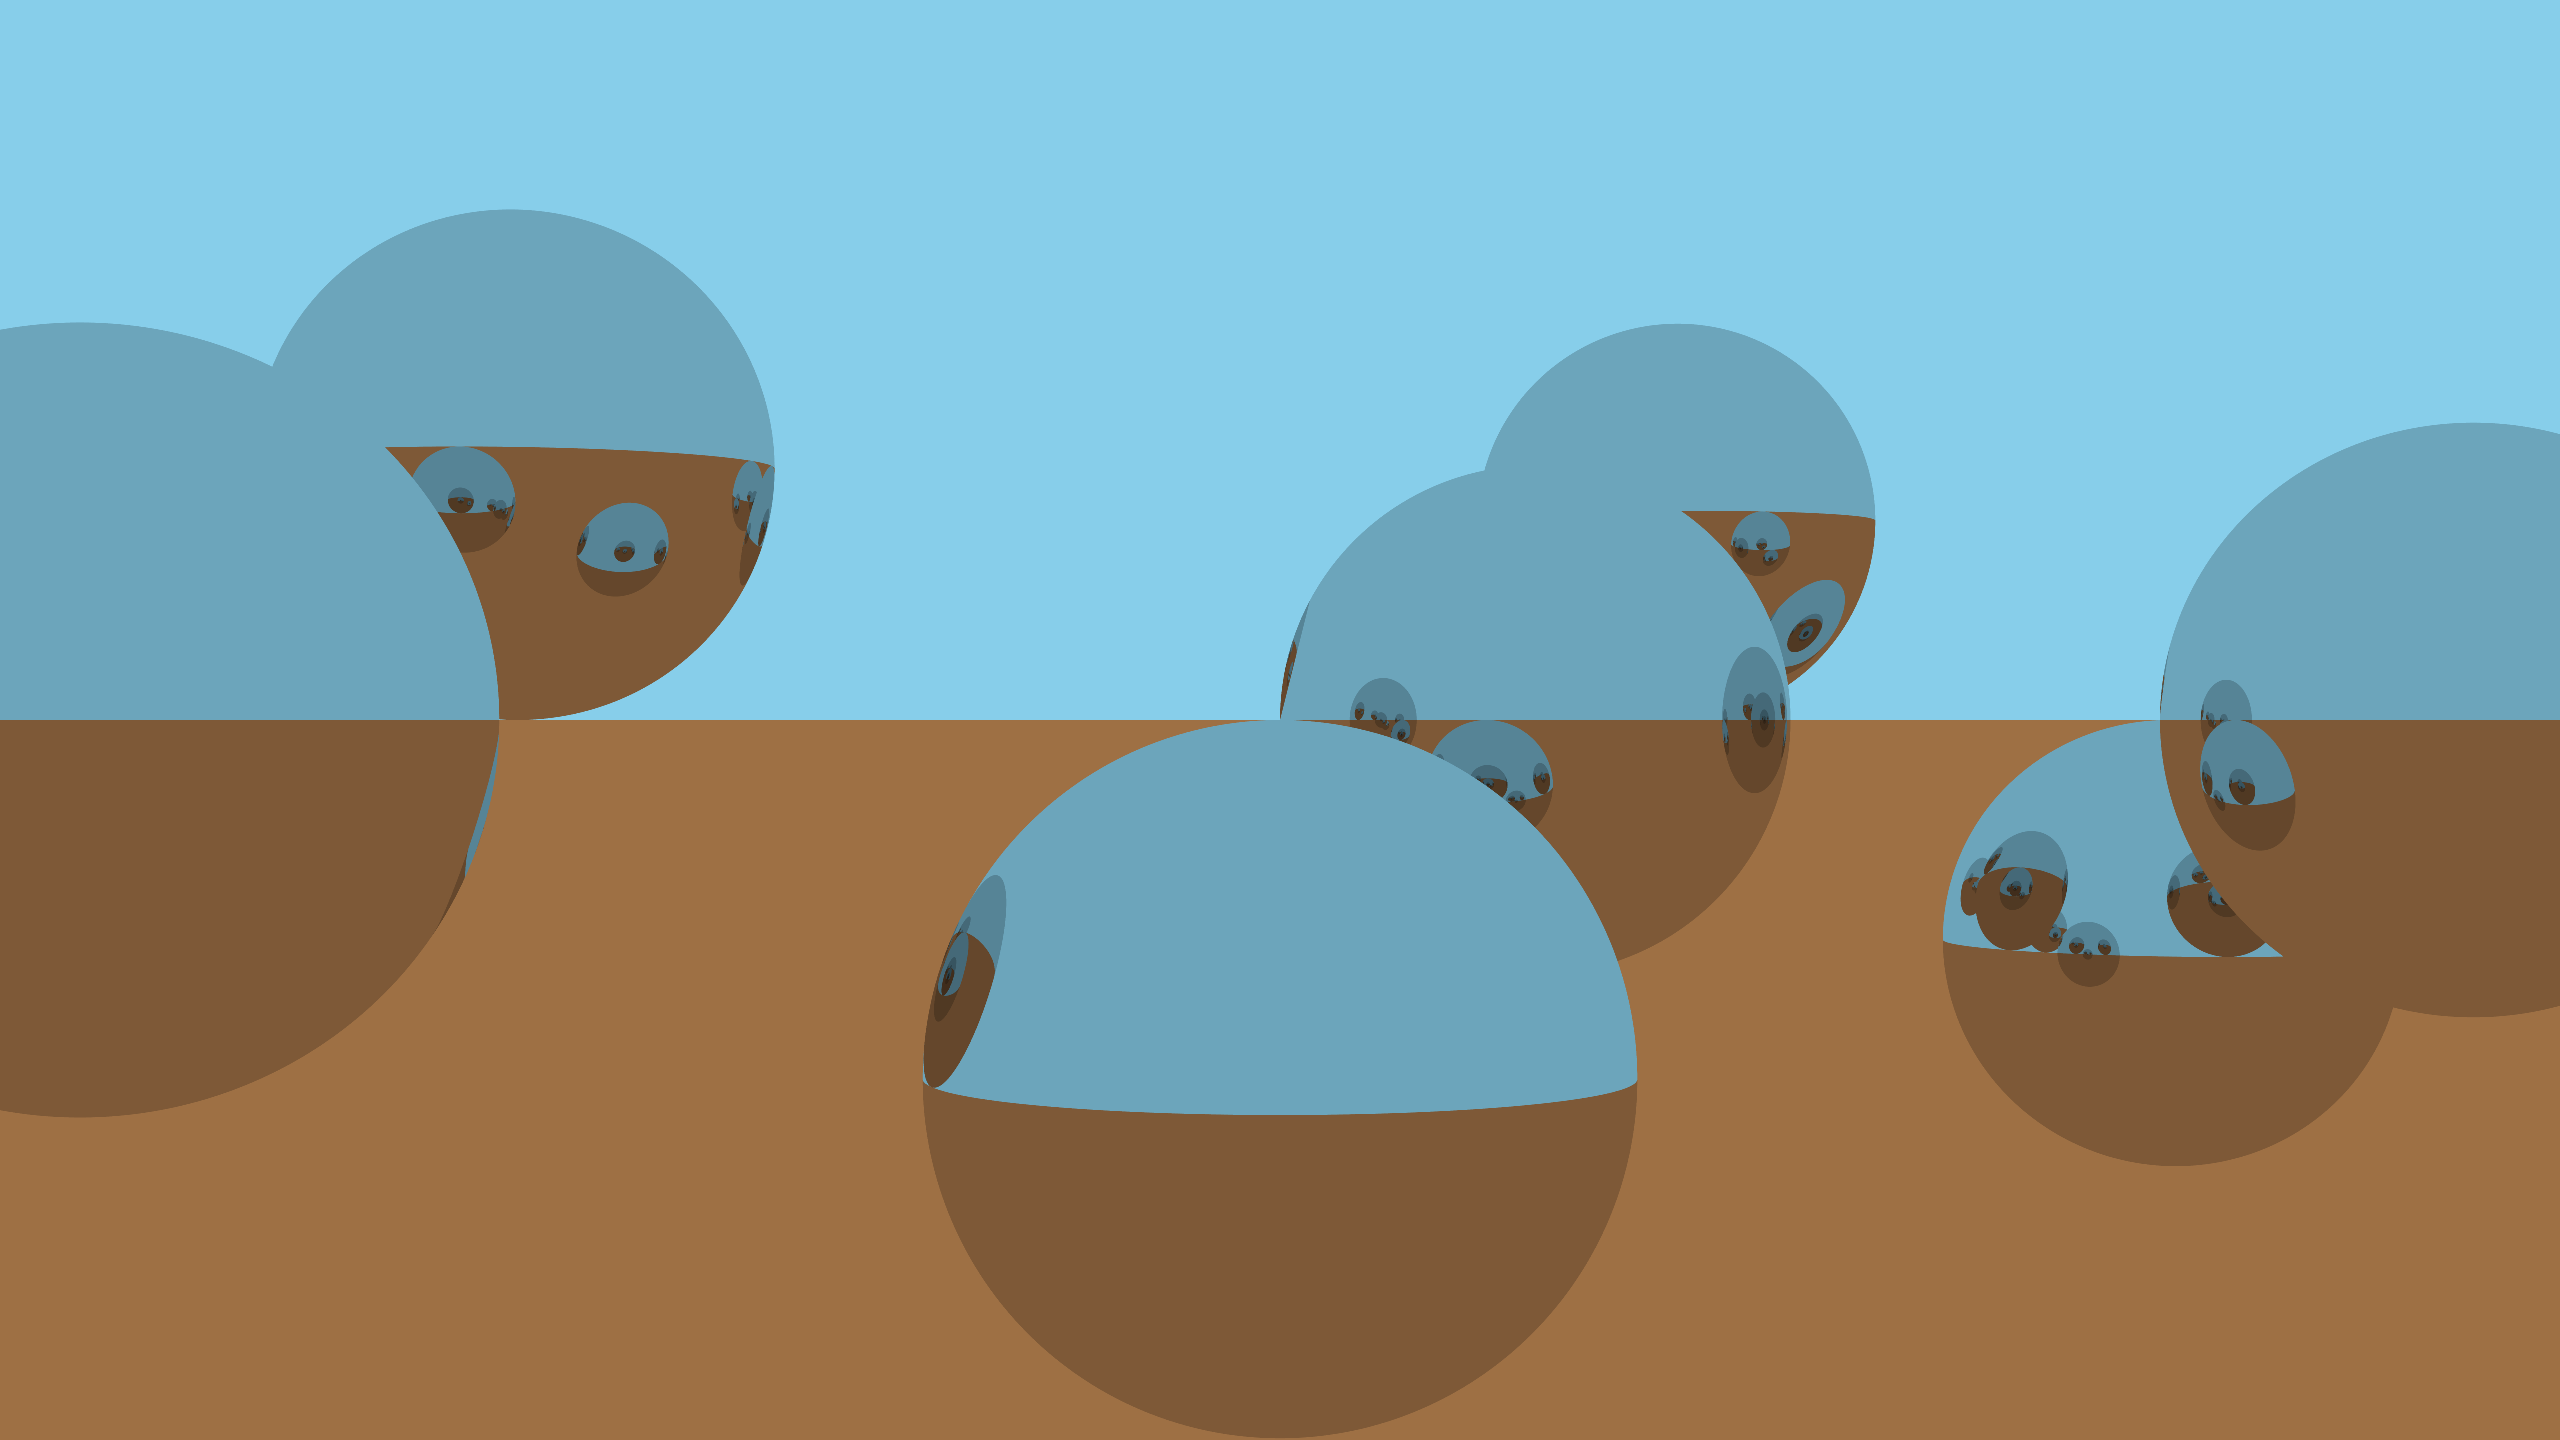
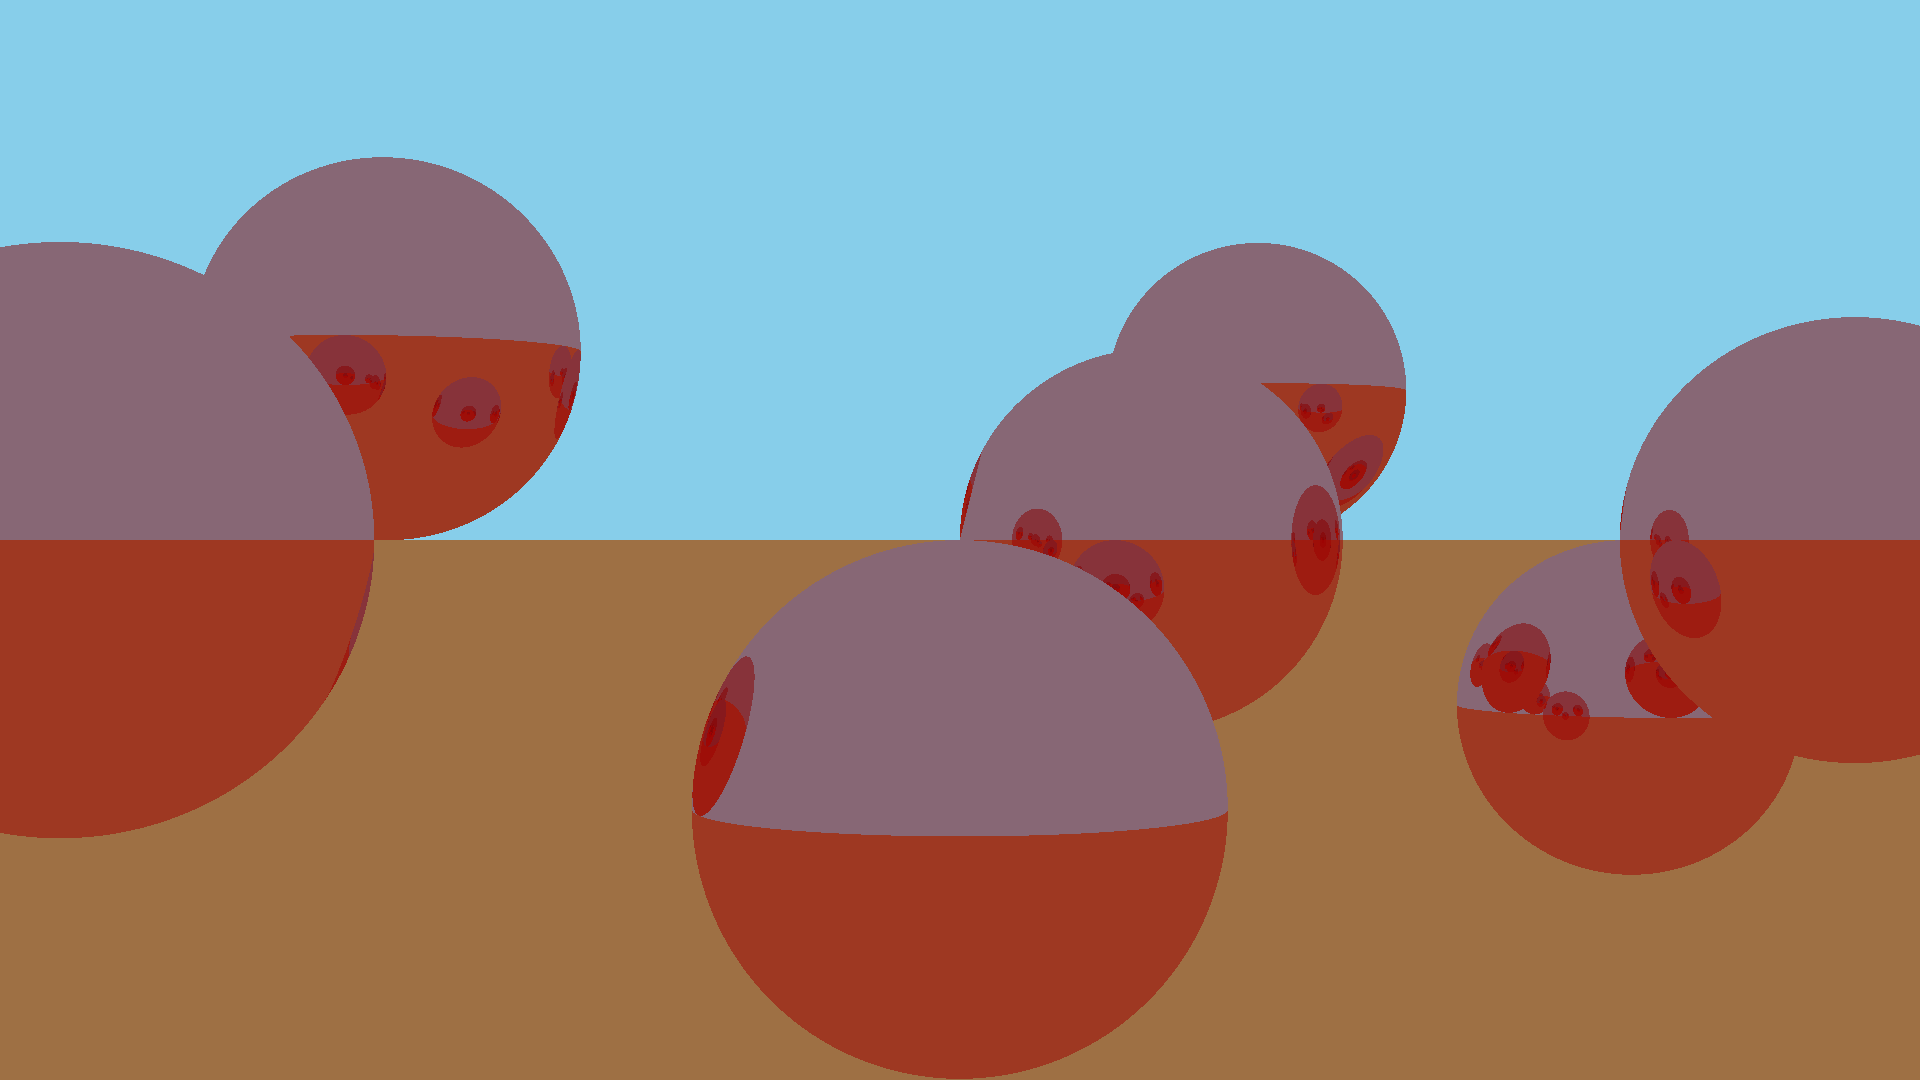
Materials are working a bit more now, need to get individual material parameters working

diff --git a/RayTracerLib/GPUDiffuseMaterial.cpp b/RayTracerLib/GPUDiffuseMaterial.cpp
@@ -29,20 +29,18 @@ GPUDiffuseMaterial::GPUDiffuseMaterial(vk::Device device)
 
 vk::DescriptorSetLayout GPUDiffuseMaterial::DescribeShader()
 {
-	vk::DescriptorSetLayoutBinding descriptorSetLayoutBindings[2] = {};
+	vk::DescriptorSetLayoutBinding descriptorSetLayoutBindings[3] = {};
 
-	descriptorSetLayoutBindings[0].binding = 0;
-	descriptorSetLayoutBindings[0].descriptorType = vk::DescriptorType::eStorageBuffer;
-	descriptorSetLayoutBindings[0].descriptorCount = 1;
-	descriptorSetLayoutBindings[0].stageFlags = vk::ShaderStageFlagBits::eCompute;
-
-	descriptorSetLayoutBindings[1].binding = 1;
-	descriptorSetLayoutBindings[1].descriptorType = vk::DescriptorType::eStorageBuffer;
-	descriptorSetLayoutBindings[1].descriptorCount = 1;
-	descriptorSetLayoutBindings[1].stageFlags = vk::ShaderStageFlagBits::eCompute;
+	for (size_t i = 0; i < ARRAYSIZE(descriptorSetLayoutBindings); i++)
+	{
+		descriptorSetLayoutBindings[i].binding = static_cast<uint32_t>(i);
+		descriptorSetLayoutBindings[i].descriptorType = vk::DescriptorType::eStorageBuffer;
+		descriptorSetLayoutBindings[i].descriptorCount = 1;
+		descriptorSetLayoutBindings[i].stageFlags = vk::ShaderStageFlagBits::eCompute;
+	}
 
 	vk::DescriptorSetLayoutCreateInfo descriptorSetLayoutCreateInfo;
-	descriptorSetLayoutCreateInfo.bindingCount = 2;
+	descriptorSetLayoutCreateInfo.bindingCount = ARRAYSIZE(descriptorSetLayoutBindings);
 	descriptorSetLayoutCreateInfo.pBindings = descriptorSetLayoutBindings;
 
 	return Device.createDescriptorSetLayout(descriptorSetLayoutCreateInfo);
@@ -79,17 +77,17 @@ vk::Result GPUDiffuseMaterial::CreatePipeline()
 
 std::vector<vk::DescriptorSet> GPUDiffuseMaterial::AllocateDescriptorSets()
 {
-	vk::DescriptorPoolSize descriptorPoolSizes[2] = {};
+	vk::DescriptorPoolSize descriptorPoolSizes[3] = {};
 
-	descriptorPoolSizes[0].type = vk::DescriptorType::eStorageBuffer;
-	descriptorPoolSizes[0].descriptorCount = 1;
-
-	descriptorPoolSizes[1].type = vk::DescriptorType::eStorageBuffer;
-	descriptorPoolSizes[1].descriptorCount = 1;
+	for (size_t i = 0; i < ARRAYSIZE(descriptorPoolSizes); i++)
+	{
+		descriptorPoolSizes[i].type = vk::DescriptorType::eStorageBuffer;
+		descriptorPoolSizes[i].descriptorCount = 1;
+	}
 
 	vk::DescriptorPoolCreateInfo descriptorPoolCreateInfo = {};
 	descriptorPoolCreateInfo.maxSets = 1;
-	descriptorPoolCreateInfo.poolSizeCount = 2;
+	descriptorPoolCreateInfo.poolSizeCount = ARRAYSIZE(descriptorPoolSizes);
 	descriptorPoolCreateInfo.pPoolSizes = descriptorPoolSizes;
 
 	vk::DescriptorPool descriptorPool = Device.createDescriptorPool(descriptorPoolCreateInfo);
@@ -107,40 +105,36 @@ std::vector<vk::DescriptorSet> GPUDiffuseMaterial::AllocateDescriptorSets()
 }
 
 void GPUDiffuseMaterial::UpdateDescriptorSets(std::vector<vk::DescriptorSet> &descriptorSet,
-	vk::Buffer input_gpu_intersection_buffer, vk::Buffer output_gpu_ray_buffer)
+	vk::Buffer input_gpu_intersection_buffer, vk::Buffer output_gpu_ray_buffer, vk::Buffer input_material_parameters)
 {
-	vk::DescriptorBufferInfo writeDescriptorSetBufferInfo[2] = {};
-	vk::WriteDescriptorSet writeDescriptorSet[2] = {};
+	vk::DescriptorBufferInfo writeDescriptorSetBufferInfo[3] = {};
+	vk::WriteDescriptorSet writeDescriptorSet[ARRAYSIZE(writeDescriptorSetBufferInfo)] = {};
+
+	for (size_t i = 0; i < ARRAYSIZE(writeDescriptorSetBufferInfo); i++)
+	{
+		writeDescriptorSetBufferInfo[i].offset = 0;
+		writeDescriptorSetBufferInfo[i].range = VK_WHOLE_SIZE;
+
+		writeDescriptorSet[i].dstSet = descriptorSet[0];
+		writeDescriptorSet[i].dstBinding = static_cast<uint32_t>(i);
+		writeDescriptorSet[i].descriptorCount = 1;
+		writeDescriptorSet[i].descriptorType = vk::DescriptorType::eStorageBuffer;
+		writeDescriptorSet[i].pBufferInfo = &writeDescriptorSetBufferInfo[i];
+	}
 
 	writeDescriptorSetBufferInfo[0].buffer = input_gpu_intersection_buffer;
-	writeDescriptorSetBufferInfo[0].offset = 0;
-	writeDescriptorSetBufferInfo[0].range = VK_WHOLE_SIZE;
-
-	writeDescriptorSet[0].dstSet = descriptorSet[0];
-	writeDescriptorSet[0].dstBinding = 0;
-	writeDescriptorSet[0].descriptorCount = 1;
-	writeDescriptorSet[0].descriptorType = vk::DescriptorType::eStorageBuffer;
-	writeDescriptorSet[0].pBufferInfo = &writeDescriptorSetBufferInfo[0];
-
 	writeDescriptorSetBufferInfo[1].buffer = output_gpu_ray_buffer;
-	writeDescriptorSetBufferInfo[1].offset = 0;
-	writeDescriptorSetBufferInfo[1].range = VK_WHOLE_SIZE;
+	writeDescriptorSetBufferInfo[2].buffer = input_material_parameters;
 
-	writeDescriptorSet[1].dstSet = descriptorSet[0];
-	writeDescriptorSet[1].dstBinding = 1;
-	writeDescriptorSet[1].descriptorCount = 1;
-	writeDescriptorSet[1].descriptorType = vk::DescriptorType::eStorageBuffer;
-	writeDescriptorSet[1].pBufferInfo = &writeDescriptorSetBufferInfo[1];
-
-	Device.updateDescriptorSets(2, writeDescriptorSet, 0, nullptr);
+	Device.updateDescriptorSets(ARRAYSIZE(writeDescriptorSetBufferInfo), writeDescriptorSet, 0, nullptr);
 }
 
 void GPUDiffuseMaterial::Execute(uint32_t ComputeQueueIndex, size_t incoming_ray_count,
-	vk::Buffer input_gpu_intersection_buffer, vk::Buffer output_gpu_ray_buffer)
+	vk::Buffer input_gpu_intersection_buffer, vk::Buffer output_gpu_ray_buffer, vk::Buffer input_material_parameters)
 {
 	DiffuseMaterialPushConstants.material_id = 1;
 
-	UpdateDescriptorSets(DescriptorSets, input_gpu_intersection_buffer, output_gpu_ray_buffer);
+	UpdateDescriptorSets(DescriptorSets, input_gpu_intersection_buffer, output_gpu_ray_buffer, input_material_parameters);
 
 	vk::CommandPoolCreateInfo commandPoolCreateInfo = {};
 	commandPoolCreateInfo.queueFamilyIndex = ComputeQueueIndex;

diff --git a/RayTracerLib/GPURendererV2.cpp b/RayTracerLib/GPURendererV2.cpp
@@ -9,6 +9,8 @@
 #include "GPUSampleAccumulator.h"
 #include "GPUStructs.h"
 
+#include "DiffuseBSDF.h"
+
 using RayTracer::GPURendererV2;
 using RayTracer::Camera;
 using RayTracer::IScene;
@@ -17,12 +19,14 @@ using RayTracer::ElapsedTimer;
 
 using RayTracer::GPURayInitializer;
 using RayTracer::GPURayIntersector;
+using RayTracer::GPUMaterialCalculator;
+using RayTracer::GPUSampleAccumulator;
+
 using RayTracer::GPURay;
 using RayTracer::GPUSphere;
+using RayTracer::GPUDiffuseMaterialParameters;
 
-using RayTracer::GPUMaterialCalculator;
-
-using RayTracer::GPUSampleAccumulator;
+using RayTracer::DiffuseBSDF;
 
 GPURendererV2::GPURendererV2(const Camera &camera, unsigned int samples, const IScene &scene) 
 	: camera(camera), samples(samples), scene(scene)
@@ -99,6 +103,21 @@ GPURendererV2::GPURendererV2(const Camera &camera, unsigned int samples, const I
 	BufferData[(int)GPUBufferBindings::sample_buffer].descriptor_type = vk::DescriptorType::eStorageBuffer;
 	BufferData[(int)GPUBufferBindings::sample_buffer].data_pointer = &gpu_sample_buffer;
 
+	std::vector<GPUDiffuseMaterialParameters> diffuse_material_parameters;
+	for (const auto &material : scene.Materials())
+	{
+		const DiffuseBSDF *diffuse_material = dynamic_cast<const DiffuseBSDF *>(material);
+		if (nullptr != diffuse_material)
+		{
+			diffuse_material_parameters.emplace_back(diffuse_material);
+		}
+	}
+
+	BufferData[(int)GPUBufferBindings::diffuse_material_parameters].buffer_size = sizeof(GPUDiffuseMaterialParameters) * diffuse_material_parameters.size();
+	BufferData[(int)GPUBufferBindings::diffuse_material_parameters].usage_flag_bits = vk::BufferUsageFlagBits::eStorageBuffer;
+	BufferData[(int)GPUBufferBindings::diffuse_material_parameters].descriptor_type = vk::DescriptorType::eStorageBuffer;
+	BufferData[(int)GPUBufferBindings::diffuse_material_parameters].data_pointer = &gpu_diffuse_material_parameters_buffer;
+
 	if (vk::Result::eSuccess != CreateAndMapMemories(ComputeQueueIndex))
 	{
 		throw std::exception("Failed to create and map memories for compute shader");
@@ -124,7 +143,13 @@ GPURendererV2::GPURendererV2(const Camera &camera, unsigned int samples, const I
 		throw std::exception("Sample buffer data for GPU compute failed to allocate");
 	}
 
+	if (nullptr == gpu_diffuse_material_parameters_buffer)
+	{
+		throw std::exception("Diffuse material parameters for GPU compute failed to allocate");
+	}
+
 	memcpy(gpu_sphere_buffer, spheres.data(), spheres.size() * sizeof(GPUSphere));
+	memcpy(gpu_diffuse_material_parameters_buffer, diffuse_material_parameters.data(), diffuse_material_parameters.size() * sizeof(GPUDiffuseMaterialParameters));
 
 	std::cout << "GPU Renderer initialization took" << ": line " << __LINE__ << ": time (ms): " << performance_timer.Poll().count() << "\n";
 }
@@ -267,7 +292,8 @@ void GPURendererV2::Render(std::shared_ptr<IImage> &out_image)
 
 			material_calculator.Execute(ComputeQueueIndex, RayBufferSize,
 				BufferData[(int)GPUBufferBindings::intersection_buffer].buffer,
-				BufferData[(int)GPUBufferBindings::ray_buffer].buffer);
+				BufferData[(int)GPUBufferBindings::ray_buffer].buffer,
+				BufferData[(int)GPUBufferBindings::diffuse_material_parameters].buffer);
 
 	#if defined _DEBUG && false
 			std::cout << "---- Calculated materials for ray buffer " << i << " ----" << "\n";

diff --git a/include/GPUStructs.h b/include/GPUStructs.h
@@ -1,11 +1,16 @@
 #pragma once
 
 #include "Sphere.h"
+#include "DiffuseBSDF.h"
+
+#define GPU_PADDING_BYTES(byte_count) char _[byte_count] = { 0 };
 
 namespace RayTracer
 {
 	// When editing the structs in the shader code calculate the size 
 	// of the GPU struct and include alignment in these structs 
+
+#pragma region Ray Tracing Structures
 
 	struct GPURay
 	{
@@ -13,7 +18,7 @@ namespace RayTracer
 		float direction[4];
 		uint32_t pixelXIndex;
 		uint32_t pixelYIndex;
-		char padding[8]; // Needed for "vec4" alignment
+		GPU_PADDING_BYTES(8);
 	};
 
 	struct GPUIntersection
@@ -27,6 +32,8 @@ namespace RayTracer
 		uint32_t object_id;
 		uint32_t face_id;
 		uint32_t material_id;
+		int32_t material_index;
+		GPU_PADDING_BYTES(12);
 	};
 
 	struct GPUSphere
@@ -63,11 +70,92 @@ namespace RayTracer
 		float position[4];
 		float radius;
 		uint32_t material_index;
-		char padding[8]; // Needed for "vec4" alignment
+		GPU_PADDING_BYTES(8);
 	};
 
 	struct GPUSample
 	{
 		float color[4];
 	};
+
+#pragma endregion
+
+#pragma region Materials
+
+	struct GPUDiffuseMaterialParameters
+	{
+		float color[4];
+		float roughness;
+		GPU_PADDING_BYTES(12);
+
+		GPUDiffuseMaterialParameters()
+		{
+			color[0] = 1;
+			color[1] = 1;
+			color[2] = 1;
+			color[3] = 1;
+			roughness = 0;
+		}
+
+		GPUDiffuseMaterialParameters(const RayTracer::DiffuseBSDF *diffuse)
+		{
+			if (nullptr == diffuse)
+			{
+				return;
+			}
+
+			color[0] = diffuse->SurfaceColor().R_float();
+			color[1] = diffuse->SurfaceColor().G_float();
+			color[2] = diffuse->SurfaceColor().B_float();
+			color[3] = 1;
+			roughness = diffuse->Roughness();
+		}
+	};
+
+	// Based on Blender's Principled BSDF object material shader
+	// TODO: If this doesn't copy to the GPU code correctly the float[4] arrays might need to be ordered differently in the struct
+	// TODO: This should replace basically every other surface-shader and they should be removed
+	// TODO: Add default values where needed
+	struct GPUPrincipledMaterialParameters
+	{
+		// Basic parameters
+		float color[4];
+		float roughness;
+		float metallic;
+		// Specular
+		float specular;
+		float specular_tint;
+		// Anisotropic
+		float anisotropic;
+		float anisotropic_rotation;
+		// Sheen
+		float sheen;
+		float sheen_tint;
+		// Clearcoat
+		float clearcoat;
+		float clearcoat_roughness;
+		// Transmission/transparency
+		float index_of_refraction;
+		float transmission;
+		float transmission_roughness;
+		// Emission
+		float emission_color[4];
+		float emission_strength;
+		// Subsurface
+		float subsurface_color[4];
+		float subsurface_radius[4];
+		float subsurface_index_of_refraction;
+		float subsurface_anisotropy;
+		float subsurface_strength;
+		// Geometric
+		float normal[4];
+		float clearcoat_normal[4];
+		float tangent[4];
+		// Struct alignment
+		GPU_PADDING_BYTES(12);
+	};
+
+#pragma endregion
 }
+
+#undef GPU_PADDING_BYTES

diff --git a/include/GPUDiffuseMaterial.h b/include/GPUDiffuseMaterial.h
@@ -12,13 +12,15 @@ namespace RayTracer
 	public:
 		GPUDiffuseMaterial(vk::Device device);
 		void Execute(uint32_t ComputeQueueIndex, size_t incoming_ray_count,
-			vk::Buffer input_gpu_intersection_buffer, vk::Buffer output_gpu_ray_buffer);
+			vk::Buffer input_gpu_intersection_buffer, vk::Buffer output_gpu_ray_buffer, 
+			vk::Buffer input_material_parameters);
 	private:
 		vk::DescriptorSetLayout DescribeShader();
 		vk::Result CreatePipeline();
 		std::vector<vk::DescriptorSet> AllocateDescriptorSets();
 		void UpdateDescriptorSets(std::vector<vk::DescriptorSet> &descriptorSet,
-			vk::Buffer input_gpu_intersection_buffer, vk::Buffer output_gpu_ray_buffer);
+			vk::Buffer input_gpu_intersection_buffer, vk::Buffer output_gpu_ray_buffer, 
+			vk::Buffer input_material_parameters);
 
 		GPUDiffuseMaterial(const GPUDiffuseMaterial &other) = delete;
 		GPUDiffuseMaterial(const GPUDiffuseMaterial &&other) = delete;

diff --git a/RayTracerLib/GPUMaterialCalculator.cpp b/RayTracerLib/GPUMaterialCalculator.cpp
@@ -13,8 +13,9 @@ GPUMaterialCalculator::GPUMaterialCalculator(vk::Device device)
 void GPUMaterialCalculator::Execute(uint32_t compute_queue_index,
 	size_t incoming_ray_count,
 	vk::Buffer input_gpu_intersection_buffer,
-	vk::Buffer output_gpu_ray_buffer)
+	vk::Buffer output_gpu_ray_buffer,
+	vk::Buffer input_diffuse_material_parameters)
 {
 	world_material.Execute(compute_queue_index, incoming_ray_count, input_gpu_intersection_buffer, output_gpu_ray_buffer);
-	diffuse_material.Execute(compute_queue_index, incoming_ray_count, input_gpu_intersection_buffer, output_gpu_ray_buffer);
+	diffuse_material.Execute(compute_queue_index, incoming_ray_count, input_gpu_intersection_buffer, output_gpu_ray_buffer, input_diffuse_material_parameters);
 }

diff --git a/include/GPURendererV2.h b/include/GPURendererV2.h
@@ -28,6 +28,7 @@ namespace RayTracer
 			intersection_buffer,
 			sphere_buffer,
 			sample_buffer,
+			diffuse_material_parameters,
 			GPUBufferBindingCount
 		};
 
@@ -56,6 +57,8 @@ namespace RayTracer
 		void *gpu_sphere_buffer;
 		// Pointers are of type GPUSample*
 		void *gpu_sample_buffer;
+		// Pointers are of type GPUDiffuseMaterialParameters*
+		void *gpu_diffuse_material_parameters_buffer;
 		
 		void *CreateAndMapMemory(uint32_t queueFamilyIndex, const vk::DeviceSize memorySize, const vk::BufferUsageFlags usage_flags,
 			vk::Buffer &vk_buffer, vk::DeviceMemory &device_memory);

diff --git a/include/GPUMaterialCalculator.h b/include/GPUMaterialCalculator.h
@@ -14,7 +14,8 @@ namespace RayTracer
 		void Execute(uint32_t compute_queue_index,
 			size_t incoming_ray_count,
 			vk::Buffer input_gpu_intersection_buffer,
-			vk::Buffer output_gpu_ray_buffer);
+			vk::Buffer output_gpu_ray_buffer,
+			vk::Buffer input_diffuse_material_parameters);
 
 	private:
 		vk::Device device;
